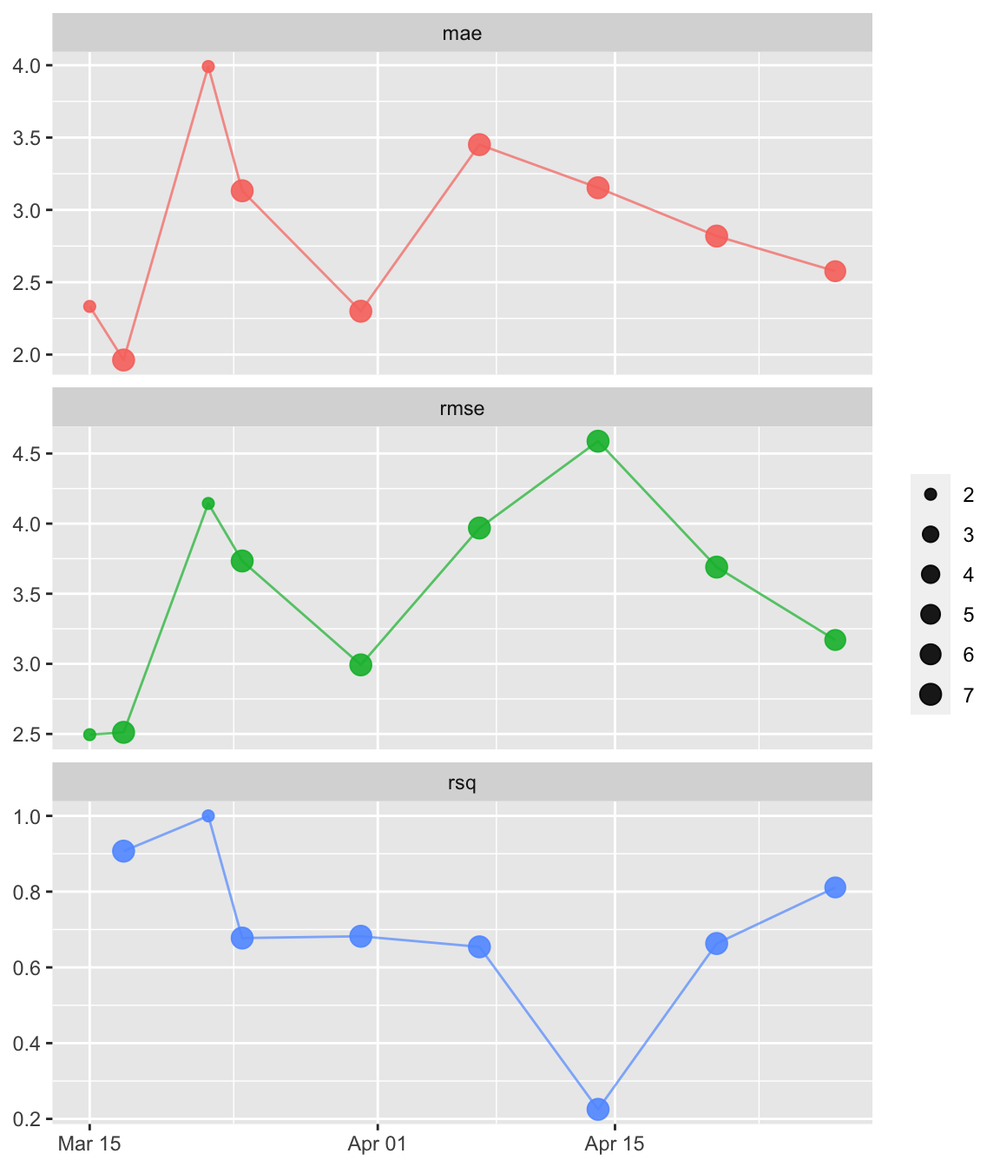
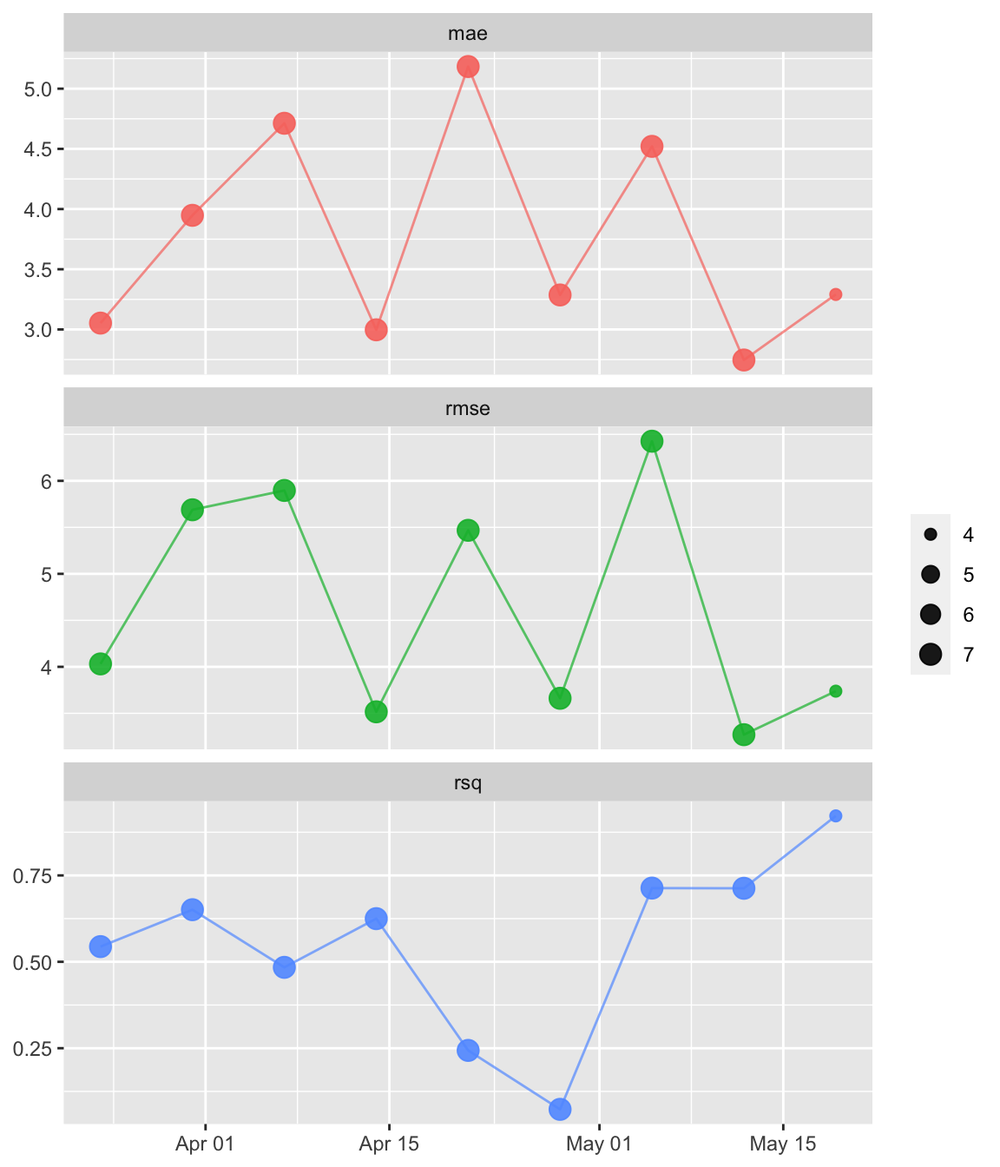
Render again

diff --git a/docs/get-started/monitor.html b/docs/get-started/monitor.html
@@ -311,45 +311,33 @@ How does my model use time?
 <span id="cb3-5"><a href="#cb3-5" aria-hidden="true" tabindex="-1"></a></span>
 <span id="cb3-6"><a href="#cb3-6" aria-hidden="true" tabindex="-1"></a>original_metrics <span class="ot">&lt;-</span></span>
 <span id="cb3-7"><a href="#cb3-7" aria-hidden="true" tabindex="-1"></a>    <span class="fu">augment</span>(v, <span class="at">new_data =</span> original_cars) <span class="sc">%&gt;%</span></span>
-<span id="cb3-8"><a href="#cb3-8" aria-hidden="true" tabindex="-1"></a>    <span class="fu">vetiver_compute_metrics</span>(date_obs, <span class="st">"week"</span>, mpg, .pred)</span></code><button title="Copy to Clipboard" class="code-copy-button"><i class="bi"></i></button></pre></div>
-<div class="cell-output cell-output-stderr">
-<pre><code>Warning: A correlation computation is required, but `estimate` is constant
-and has 0 standard deviation, resulting in a divide by 0 error. `NA` will be
-returned.</code></pre>
-</div>
-<div class="cell-output cell-output-stderr">
-<pre><code>Warning: A correlation computation is required, but `estimate` is constant
-and has 0 standard deviation, resulting in a divide by 0 error. `NA` will be
-returned.</code></pre>
-</div>
-<div class="sourceCode cell-code" id="cb6"><pre class="sourceCode r code-with-copy"><code class="sourceCode r"><span id="cb6-1"><a href="#cb6-1" aria-hidden="true" tabindex="-1"></a>original_metrics</span></code><button title="Copy to Clipboard" class="code-copy-button"><i class="bi"></i></button></pre></div>
+<span id="cb3-8"><a href="#cb3-8" aria-hidden="true" tabindex="-1"></a>    <span class="fu">vetiver_compute_metrics</span>(date_obs, <span class="st">"week"</span>, mpg, .pred)</span>
+<span id="cb3-9"><a href="#cb3-9" aria-hidden="true" tabindex="-1"></a></span>
+<span id="cb3-10"><a href="#cb3-10" aria-hidden="true" tabindex="-1"></a>original_metrics</span></code><button title="Copy to Clipboard" class="code-copy-button"><i class="bi"></i></button></pre></div>
 <div class="cell-output cell-output-stdout">
-<pre><code># A tibble: 9 × 5
+<pre><code># A tibble: 6 × 5
   .index        .n .metric .estimator .estimate
   &lt;date&gt;     &lt;int&gt; &lt;chr&gt;   &lt;chr&gt;          &lt;dbl&gt;
-1 2022-03-15     2 rmse    standard       2.49 
-2 2022-03-15     2 rsq     standard      NA    
-3 2022-03-15     2 mae     standard       2.33 
-4 2022-03-17     7 rmse    standard       2.51 
-5 2022-03-17     7 rsq     standard       0.907
-6 2022-03-17     7 mae     standard       1.96 
-7 2022-03-24     5 rmse    standard       4.05 
-8 2022-03-24     5 rsq     standard      NA    
-9 2022-03-24     5 mae     standard       3.42 </code></pre>
+1 2022-03-24     7 rmse    standard       4.03 
+2 2022-03-24     7 rsq     standard       0.544
+3 2022-03-24     7 mae     standard       3.05 
+4 2022-03-31     7 rmse    standard       5.69 
+5 2022-03-31     7 rsq     standard       0.651
+6 2022-03-31     7 mae     standard       3.95 </code></pre>
 </div>
 </div>
 </div>
 <div id="tabset-2-2" class="tab-pane" role="tabpanel" aria-labelledby="tabset-2-2-tab">
 <div class="cell">
-<div class="sourceCode cell-code" id="cb8"><pre class="sourceCode python code-with-copy"><code class="sourceCode python"><span id="cb8-1"><a href="#cb8-1" aria-hidden="true" tabindex="-1"></a><span class="im">import</span> vetiver</span>
-<span id="cb8-2"><a href="#cb8-2" aria-hidden="true" tabindex="-1"></a></span>
-<span id="cb8-3"><a href="#cb8-3" aria-hidden="true" tabindex="-1"></a><span class="im">import</span> pandas <span class="im">as</span> pd</span>
-<span id="cb8-4"><a href="#cb8-4" aria-hidden="true" tabindex="-1"></a><span class="im">from</span> sklearn <span class="im">import</span> metrics</span>
-<span id="cb8-5"><a href="#cb8-5" aria-hidden="true" tabindex="-1"></a><span class="im">from</span> datetime <span class="im">import</span> timedelta</span>
-<span id="cb8-6"><a href="#cb8-6" aria-hidden="true" tabindex="-1"></a></span>
-<span id="cb8-7"><a href="#cb8-7" aria-hidden="true" tabindex="-1"></a>cars <span class="op">=</span> pd.read_csv(<span class="st">"https://vetiver.rstudio.com/get-started/new-cars.csv"</span>)</span>
-<span id="cb8-8"><a href="#cb8-8" aria-hidden="true" tabindex="-1"></a>original_cars <span class="op">=</span> cars.iloc[:<span class="dv">14</span>, :]</span>
-<span id="cb8-9"><a href="#cb8-9" aria-hidden="true" tabindex="-1"></a>original_cars[<span class="st">"preds"</span>] <span class="op">=</span> v.model.predict(original_cars.drop(columns<span class="op">=</span>[<span class="st">"date_obs"</span>, <span class="st">"mpg"</span>]))</span></code><button title="Copy to Clipboard" class="code-copy-button"><i class="bi"></i></button></pre></div>
+<div class="sourceCode cell-code" id="cb5"><pre class="sourceCode python code-with-copy"><code class="sourceCode python"><span id="cb5-1"><a href="#cb5-1" aria-hidden="true" tabindex="-1"></a><span class="im">import</span> vetiver</span>
+<span id="cb5-2"><a href="#cb5-2" aria-hidden="true" tabindex="-1"></a></span>
+<span id="cb5-3"><a href="#cb5-3" aria-hidden="true" tabindex="-1"></a><span class="im">import</span> pandas <span class="im">as</span> pd</span>
+<span id="cb5-4"><a href="#cb5-4" aria-hidden="true" tabindex="-1"></a><span class="im">from</span> sklearn <span class="im">import</span> metrics</span>
+<span id="cb5-5"><a href="#cb5-5" aria-hidden="true" tabindex="-1"></a><span class="im">from</span> datetime <span class="im">import</span> timedelta</span>
+<span id="cb5-6"><a href="#cb5-6" aria-hidden="true" tabindex="-1"></a></span>
+<span id="cb5-7"><a href="#cb5-7" aria-hidden="true" tabindex="-1"></a>cars <span class="op">=</span> pd.read_csv(<span class="st">"https://vetiver.rstudio.com/get-started/new-cars.csv"</span>)</span>
+<span id="cb5-8"><a href="#cb5-8" aria-hidden="true" tabindex="-1"></a>original_cars <span class="op">=</span> cars.iloc[:<span class="dv">14</span>, :]</span>
+<span id="cb5-9"><a href="#cb5-9" aria-hidden="true" tabindex="-1"></a>original_cars[<span class="st">"preds"</span>] <span class="op">=</span> v.model.predict(original_cars.drop(columns<span class="op">=</span>[<span class="st">"date_obs"</span>, <span class="st">"mpg"</span>]))</span></code><button title="Copy to Clipboard" class="code-copy-button"><i class="bi"></i></button></pre></div>
 <div class="cell-output cell-output-stdout">
 <pre><code>&lt;string&gt;:1: SettingWithCopyWarning: 
 A value is trying to be set on a copy of a slice from a DataFrame.
@@ -357,27 +345,27 @@ Try using .loc[row_indexer,col_indexer] = value instead
 
 See the caveats in the documentation: https://pandas.pydata.org/pandas-docs/stable/user_guide/indexing.html#returning-a-view-versus-a-copy</code></pre>
 </div>
-<div class="sourceCode cell-code" id="cb10"><pre class="sourceCode python code-with-copy"><code class="sourceCode python"><span id="cb10-1"><a href="#cb10-1" aria-hidden="true" tabindex="-1"></a>metric_set <span class="op">=</span> [metrics.mean_absolute_error, metrics.mean_squared_error, metrics.r2_score]</span>
-<span id="cb10-2"><a href="#cb10-2" aria-hidden="true" tabindex="-1"></a>td <span class="op">=</span> timedelta(weeks <span class="op">=</span> <span class="dv">1</span>)</span>
-<span id="cb10-3"><a href="#cb10-3" aria-hidden="true" tabindex="-1"></a></span>
-<span id="cb10-4"><a href="#cb10-4" aria-hidden="true" tabindex="-1"></a>original_metrics <span class="op">=</span> vetiver.compute_metrics(</span>
-<span id="cb10-5"><a href="#cb10-5" aria-hidden="true" tabindex="-1"></a>    data <span class="op">=</span> original_cars, </span>
-<span id="cb10-6"><a href="#cb10-6" aria-hidden="true" tabindex="-1"></a>    date_var <span class="op">=</span> <span class="st">"date_obs"</span>, </span>
-<span id="cb10-7"><a href="#cb10-7" aria-hidden="true" tabindex="-1"></a>    period <span class="op">=</span> td, </span>
-<span id="cb10-8"><a href="#cb10-8" aria-hidden="true" tabindex="-1"></a>    metric_set <span class="op">=</span> metric_set, </span>
-<span id="cb10-9"><a href="#cb10-9" aria-hidden="true" tabindex="-1"></a>    truth <span class="op">=</span> <span class="st">"mpg"</span>, </span>
-<span id="cb10-10"><a href="#cb10-10" aria-hidden="true" tabindex="-1"></a>    estimate <span class="op">=</span> <span class="st">"preds"</span></span>
-<span id="cb10-11"><a href="#cb10-11" aria-hidden="true" tabindex="-1"></a>)</span>
-<span id="cb10-12"><a href="#cb10-12" aria-hidden="true" tabindex="-1"></a></span>
-<span id="cb10-13"><a href="#cb10-13" aria-hidden="true" tabindex="-1"></a>original_metrics</span></code><button title="Copy to Clipboard" class="code-copy-button"><i class="bi"></i></button></pre></div>
+<div class="sourceCode cell-code" id="cb7"><pre class="sourceCode python code-with-copy"><code class="sourceCode python"><span id="cb7-1"><a href="#cb7-1" aria-hidden="true" tabindex="-1"></a>metric_set <span class="op">=</span> [metrics.mean_absolute_error, metrics.mean_squared_error, metrics.r2_score]</span>
+<span id="cb7-2"><a href="#cb7-2" aria-hidden="true" tabindex="-1"></a>td <span class="op">=</span> timedelta(weeks <span class="op">=</span> <span class="dv">1</span>)</span>
+<span id="cb7-3"><a href="#cb7-3" aria-hidden="true" tabindex="-1"></a></span>
+<span id="cb7-4"><a href="#cb7-4" aria-hidden="true" tabindex="-1"></a>original_metrics <span class="op">=</span> vetiver.compute_metrics(</span>
+<span id="cb7-5"><a href="#cb7-5" aria-hidden="true" tabindex="-1"></a>    data <span class="op">=</span> original_cars, </span>
+<span id="cb7-6"><a href="#cb7-6" aria-hidden="true" tabindex="-1"></a>    date_var <span class="op">=</span> <span class="st">"date_obs"</span>, </span>
+<span id="cb7-7"><a href="#cb7-7" aria-hidden="true" tabindex="-1"></a>    period <span class="op">=</span> td, </span>
+<span id="cb7-8"><a href="#cb7-8" aria-hidden="true" tabindex="-1"></a>    metric_set <span class="op">=</span> metric_set, </span>
+<span id="cb7-9"><a href="#cb7-9" aria-hidden="true" tabindex="-1"></a>    truth <span class="op">=</span> <span class="st">"mpg"</span>, </span>
+<span id="cb7-10"><a href="#cb7-10" aria-hidden="true" tabindex="-1"></a>    estimate <span class="op">=</span> <span class="st">"preds"</span></span>
+<span id="cb7-11"><a href="#cb7-11" aria-hidden="true" tabindex="-1"></a>)</span>
+<span id="cb7-12"><a href="#cb7-12" aria-hidden="true" tabindex="-1"></a></span>
+<span id="cb7-13"><a href="#cb7-13" aria-hidden="true" tabindex="-1"></a>original_metrics</span></code><button title="Copy to Clipboard" class="code-copy-button"><i class="bi"></i></button></pre></div>
 <div class="cell-output cell-output-stdout">
 <pre><code>       index  n               metric   estimate
-0 2022-03-15  7  mean_absolute_error   1.528922
-1 2022-03-15  7   mean_squared_error   4.271549
-2 2022-03-15  7             r2_score   0.793702
-3 2022-03-22  7  mean_absolute_error   3.991518
-4 2022-03-22  7   mean_squared_error  27.570905
-5 2022-03-22  7             r2_score  -0.785869</code></pre>
+0 2022-03-24  7  mean_absolute_error   3.164286
+1 2022-03-24  7   mean_squared_error  11.826094
+2 2022-03-24  7             r2_score  -1.364061
+3 2022-03-31  7  mean_absolute_error   1.713251
+4 2022-03-31  7   mean_squared_error   6.843211
+5 2022-03-31  7             r2_score   0.631600</code></pre>
 </div>
 </div>
 </div>
@@ -392,38 +380,38 @@ See the caveats in the documentation: https://pandas.pydata.org/pandas-docs/stab
 <div class="tab-content" data-group="language">
 <div id="tabset-3-1" class="tab-pane active" role="tabpanel" aria-labelledby="tabset-3-1-tab">
 <div class="cell">
-<div class="sourceCode cell-code" id="cb12"><pre class="sourceCode r code-with-copy"><code class="sourceCode r"><span id="cb12-1"><a href="#cb12-1" aria-hidden="true" tabindex="-1"></a>model_board <span class="sc">%&gt;%</span> <span class="fu">pin_write</span>(original_metrics, <span class="st">"tree_metrics"</span>)</span>
-<span id="cb12-2"><a href="#cb12-2" aria-hidden="true" tabindex="-1"></a></span>
-<span id="cb12-3"><a href="#cb12-3" aria-hidden="true" tabindex="-1"></a><span class="co"># dates overlap with existing metrics:</span></span>
-<span id="cb12-4"><a href="#cb12-4" aria-hidden="true" tabindex="-1"></a>new_cars <span class="ot">&lt;-</span> <span class="fu">slice</span>(cars, <span class="sc">-</span><span class="dv">1</span><span class="sc">:-</span><span class="dv">7</span>)</span>
-<span id="cb12-5"><a href="#cb12-5" aria-hidden="true" tabindex="-1"></a>new_metrics <span class="ot">&lt;-</span></span>
-<span id="cb12-6"><a href="#cb12-6" aria-hidden="true" tabindex="-1"></a>    <span class="fu">augment</span>(v, <span class="at">new_data =</span> new_cars) <span class="sc">%&gt;%</span></span>
-<span id="cb12-7"><a href="#cb12-7" aria-hidden="true" tabindex="-1"></a>    <span class="fu">vetiver_compute_metrics</span>(date_obs, <span class="st">"week"</span>, mpg, .pred)</span>
-<span id="cb12-8"><a href="#cb12-8" aria-hidden="true" tabindex="-1"></a></span>
-<span id="cb12-9"><a href="#cb12-9" aria-hidden="true" tabindex="-1"></a>model_board <span class="sc">%&gt;%</span></span>
-<span id="cb12-10"><a href="#cb12-10" aria-hidden="true" tabindex="-1"></a>    <span class="fu">vetiver_pin_metrics</span>(new_metrics, <span class="st">"tree_metrics"</span>, <span class="at">overwrite =</span> <span class="cn">TRUE</span>)</span></code><button title="Copy to Clipboard" class="code-copy-button"><i class="bi"></i></button></pre></div>
+<div class="sourceCode cell-code" id="cb9"><pre class="sourceCode r code-with-copy"><code class="sourceCode r"><span id="cb9-1"><a href="#cb9-1" aria-hidden="true" tabindex="-1"></a>model_board <span class="sc">%&gt;%</span> <span class="fu">pin_write</span>(original_metrics, <span class="st">"tree_metrics"</span>)</span>
+<span id="cb9-2"><a href="#cb9-2" aria-hidden="true" tabindex="-1"></a></span>
+<span id="cb9-3"><a href="#cb9-3" aria-hidden="true" tabindex="-1"></a><span class="co"># dates overlap with existing metrics:</span></span>
+<span id="cb9-4"><a href="#cb9-4" aria-hidden="true" tabindex="-1"></a>new_cars <span class="ot">&lt;-</span> <span class="fu">slice</span>(cars, <span class="sc">-</span><span class="dv">1</span><span class="sc">:-</span><span class="dv">7</span>)</span>
+<span id="cb9-5"><a href="#cb9-5" aria-hidden="true" tabindex="-1"></a>new_metrics <span class="ot">&lt;-</span></span>
+<span id="cb9-6"><a href="#cb9-6" aria-hidden="true" tabindex="-1"></a>    <span class="fu">augment</span>(v, <span class="at">new_data =</span> new_cars) <span class="sc">%&gt;%</span></span>
+<span id="cb9-7"><a href="#cb9-7" aria-hidden="true" tabindex="-1"></a>    <span class="fu">vetiver_compute_metrics</span>(date_obs, <span class="st">"week"</span>, mpg, .pred)</span>
+<span id="cb9-8"><a href="#cb9-8" aria-hidden="true" tabindex="-1"></a></span>
+<span id="cb9-9"><a href="#cb9-9" aria-hidden="true" tabindex="-1"></a>model_board <span class="sc">%&gt;%</span></span>
+<span id="cb9-10"><a href="#cb9-10" aria-hidden="true" tabindex="-1"></a>    <span class="fu">vetiver_pin_metrics</span>(new_metrics, <span class="st">"tree_metrics"</span>, <span class="at">overwrite =</span> <span class="cn">TRUE</span>)</span></code><button title="Copy to Clipboard" class="code-copy-button"><i class="bi"></i></button></pre></div>
 </div>
 </div>
 <div id="tabset-3-2" class="tab-pane" role="tabpanel" aria-labelledby="tabset-3-2-tab">
 <div class="cell">
-<div class="sourceCode cell-code" id="cb13"><pre class="sourceCode python code-with-copy"><code class="sourceCode python"><span id="cb13-1"><a href="#cb13-1" aria-hidden="true" tabindex="-1"></a><span class="im">import</span> vetiver</span>
-<span id="cb13-2"><a href="#cb13-2" aria-hidden="true" tabindex="-1"></a><span class="im">import</span> pins</span>
-<span id="cb13-3"><a href="#cb13-3" aria-hidden="true" tabindex="-1"></a></span>
-<span id="cb13-4"><a href="#cb13-4" aria-hidden="true" tabindex="-1"></a>model_board.pin_write(original_metrics, <span class="st">"tree_metrics"</span>, <span class="bu">type</span> <span class="op">=</span> <span class="st">"csv"</span>)</span>
-<span id="cb13-5"><a href="#cb13-5" aria-hidden="true" tabindex="-1"></a></span>
-<span id="cb13-6"><a href="#cb13-6" aria-hidden="true" tabindex="-1"></a><span class="co"># dates overlap with existing metrics:</span></span></code><button title="Copy to Clipboard" class="code-copy-button"><i class="bi"></i></button></pre></div>
-<div class="sourceCode cell-code" id="cb14"><pre class="sourceCode python code-with-copy"><code class="sourceCode python"><span id="cb14-1"><a href="#cb14-1" aria-hidden="true" tabindex="-1"></a>new_cars <span class="op">=</span> cars.iloc[<span class="dv">7</span>:, :]</span>
-<span id="cb14-2"><a href="#cb14-2" aria-hidden="true" tabindex="-1"></a>new_cars[<span class="st">"preds"</span>] <span class="op">=</span> v.model.predict(new_cars.drop(columns<span class="op">=</span>[<span class="st">"date_obs"</span>, <span class="st">"mpg"</span>]))</span></code><button title="Copy to Clipboard" class="code-copy-button"><i class="bi"></i></button></pre></div>
-<div class="sourceCode cell-code" id="cb15"><pre class="sourceCode python code-with-copy"><code class="sourceCode python"><span id="cb15-1"><a href="#cb15-1" aria-hidden="true" tabindex="-1"></a>new_metrics <span class="op">=</span> vetiver.compute_metrics(</span>
-<span id="cb15-2"><a href="#cb15-2" aria-hidden="true" tabindex="-1"></a>    data <span class="op">=</span> new_cars, </span>
-<span id="cb15-3"><a href="#cb15-3" aria-hidden="true" tabindex="-1"></a>    date_var <span class="op">=</span> <span class="st">"date_obs"</span>, </span>
-<span id="cb15-4"><a href="#cb15-4" aria-hidden="true" tabindex="-1"></a>    period <span class="op">=</span> td, </span>
-<span id="cb15-5"><a href="#cb15-5" aria-hidden="true" tabindex="-1"></a>    metric_set <span class="op">=</span> metric_set, </span>
-<span id="cb15-6"><a href="#cb15-6" aria-hidden="true" tabindex="-1"></a>    truth <span class="op">=</span> <span class="st">"mpg"</span>, </span>
-<span id="cb15-7"><a href="#cb15-7" aria-hidden="true" tabindex="-1"></a>    estimate <span class="op">=</span> <span class="st">"preds"</span></span>
-<span id="cb15-8"><a href="#cb15-8" aria-hidden="true" tabindex="-1"></a>)</span>
-<span id="cb15-9"><a href="#cb15-9" aria-hidden="true" tabindex="-1"></a>                    </span>
-<span id="cb15-10"><a href="#cb15-10" aria-hidden="true" tabindex="-1"></a>vetiver.pin_metrics(model_board, new_metrics, <span class="st">"tree_metrics"</span>, overwrite <span class="op">=</span> <span class="va">True</span>)</span></code><button title="Copy to Clipboard" class="code-copy-button"><i class="bi"></i></button></pre></div>
+<div class="sourceCode cell-code" id="cb10"><pre class="sourceCode python code-with-copy"><code class="sourceCode python"><span id="cb10-1"><a href="#cb10-1" aria-hidden="true" tabindex="-1"></a><span class="im">import</span> vetiver</span>
+<span id="cb10-2"><a href="#cb10-2" aria-hidden="true" tabindex="-1"></a><span class="im">import</span> pins</span>
+<span id="cb10-3"><a href="#cb10-3" aria-hidden="true" tabindex="-1"></a></span>
+<span id="cb10-4"><a href="#cb10-4" aria-hidden="true" tabindex="-1"></a>model_board.pin_write(original_metrics, <span class="st">"tree_metrics"</span>, <span class="bu">type</span> <span class="op">=</span> <span class="st">"csv"</span>)</span>
+<span id="cb10-5"><a href="#cb10-5" aria-hidden="true" tabindex="-1"></a></span>
+<span id="cb10-6"><a href="#cb10-6" aria-hidden="true" tabindex="-1"></a><span class="co"># dates overlap with existing metrics:</span></span></code><button title="Copy to Clipboard" class="code-copy-button"><i class="bi"></i></button></pre></div>
+<div class="sourceCode cell-code" id="cb11"><pre class="sourceCode python code-with-copy"><code class="sourceCode python"><span id="cb11-1"><a href="#cb11-1" aria-hidden="true" tabindex="-1"></a>new_cars <span class="op">=</span> cars.iloc[<span class="dv">7</span>:, :]</span>
+<span id="cb11-2"><a href="#cb11-2" aria-hidden="true" tabindex="-1"></a>new_cars[<span class="st">"preds"</span>] <span class="op">=</span> v.model.predict(new_cars.drop(columns<span class="op">=</span>[<span class="st">"date_obs"</span>, <span class="st">"mpg"</span>]))</span></code><button title="Copy to Clipboard" class="code-copy-button"><i class="bi"></i></button></pre></div>
+<div class="sourceCode cell-code" id="cb12"><pre class="sourceCode python code-with-copy"><code class="sourceCode python"><span id="cb12-1"><a href="#cb12-1" aria-hidden="true" tabindex="-1"></a>new_metrics <span class="op">=</span> vetiver.compute_metrics(</span>
+<span id="cb12-2"><a href="#cb12-2" aria-hidden="true" tabindex="-1"></a>    data <span class="op">=</span> new_cars, </span>
+<span id="cb12-3"><a href="#cb12-3" aria-hidden="true" tabindex="-1"></a>    date_var <span class="op">=</span> <span class="st">"date_obs"</span>, </span>
+<span id="cb12-4"><a href="#cb12-4" aria-hidden="true" tabindex="-1"></a>    period <span class="op">=</span> td, </span>
+<span id="cb12-5"><a href="#cb12-5" aria-hidden="true" tabindex="-1"></a>    metric_set <span class="op">=</span> metric_set, </span>
+<span id="cb12-6"><a href="#cb12-6" aria-hidden="true" tabindex="-1"></a>    truth <span class="op">=</span> <span class="st">"mpg"</span>, </span>
+<span id="cb12-7"><a href="#cb12-7" aria-hidden="true" tabindex="-1"></a>    estimate <span class="op">=</span> <span class="st">"preds"</span></span>
+<span id="cb12-8"><a href="#cb12-8" aria-hidden="true" tabindex="-1"></a>)</span>
+<span id="cb12-9"><a href="#cb12-9" aria-hidden="true" tabindex="-1"></a>                    </span>
+<span id="cb12-10"><a href="#cb12-10" aria-hidden="true" tabindex="-1"></a>vetiver.pin_metrics(model_board, new_metrics, <span class="st">"tree_metrics"</span>, overwrite <span class="op">=</span> <span class="va">True</span>)</span></code><button title="Copy to Clipboard" class="code-copy-button"><i class="bi"></i></button></pre></div>
 </div>
 </div>
 </div>
@@ -437,16 +425,10 @@ See the caveats in the documentation: https://pandas.pydata.org/pandas-docs/stab
 <div class="tab-content" data-group="language">
 <div id="tabset-4-1" class="tab-pane active" role="tabpanel" aria-labelledby="tabset-4-1-tab">
 <div class="cell">
-<div class="sourceCode cell-code" id="cb16"><pre class="sourceCode r code-with-copy"><code class="sourceCode r"><span id="cb16-1"><a href="#cb16-1" aria-hidden="true" tabindex="-1"></a><span class="fu">library</span>(ggplot2)</span>
-<span id="cb16-2"><a href="#cb16-2" aria-hidden="true" tabindex="-1"></a>monitoring_metrics <span class="ot">&lt;-</span> model_board <span class="sc">%&gt;%</span> <span class="fu">pin_read</span>(<span class="st">"tree_metrics"</span>)</span>
-<span id="cb16-3"><a href="#cb16-3" aria-hidden="true" tabindex="-1"></a><span class="fu">vetiver_plot_metrics</span>(monitoring_metrics) <span class="sc">+</span></span>
-<span id="cb16-4"><a href="#cb16-4" aria-hidden="true" tabindex="-1"></a>    <span class="fu">scale_size</span>(<span class="at">range =</span> <span class="fu">c</span>(<span class="dv">2</span>, <span class="dv">4</span>))</span></code><button title="Copy to Clipboard" class="code-copy-button"><i class="bi"></i></button></pre></div>
-<div class="cell-output cell-output-stderr">
-<pre><code>Warning: Removed 1 row(s) containing missing values (geom_path).</code></pre>
-</div>
-<div class="cell-output cell-output-stderr">
-<pre><code>Warning: Removed 1 rows containing missing values (geom_point).</code></pre>
-</div>
+<div class="sourceCode cell-code" id="cb13"><pre class="sourceCode r code-with-copy"><code class="sourceCode r"><span id="cb13-1"><a href="#cb13-1" aria-hidden="true" tabindex="-1"></a><span class="fu">library</span>(ggplot2)</span>
+<span id="cb13-2"><a href="#cb13-2" aria-hidden="true" tabindex="-1"></a>monitoring_metrics <span class="ot">&lt;-</span> model_board <span class="sc">%&gt;%</span> <span class="fu">pin_read</span>(<span class="st">"tree_metrics"</span>)</span>
+<span id="cb13-3"><a href="#cb13-3" aria-hidden="true" tabindex="-1"></a><span class="fu">vetiver_plot_metrics</span>(monitoring_metrics) <span class="sc">+</span></span>
+<span id="cb13-4"><a href="#cb13-4" aria-hidden="true" tabindex="-1"></a>    <span class="fu">scale_size</span>(<span class="at">range =</span> <span class="fu">c</span>(<span class="dv">2</span>, <span class="dv">4</span>))</span></code><button title="Copy to Clipboard" class="code-copy-button"><i class="bi"></i></button></pre></div>
 <div class="cell-output-display">
 <p><img src="monitor_files/figure-html/unnamed-chunk-7-1.png" class="img-fluid" width="576"></p>
 </div>
@@ -454,9 +436,9 @@ See the caveats in the documentation: https://pandas.pydata.org/pandas-docs/stab
 </div>
 <div id="tabset-4-2" class="tab-pane" role="tabpanel" aria-labelledby="tabset-4-2-tab">
 <div class="cell">
-<div class="sourceCode cell-code" id="cb19"><pre class="sourceCode python code-with-copy"><code class="sourceCode python"><span id="cb19-1"><a href="#cb19-1" aria-hidden="true" tabindex="-1"></a>monitoring_metrics <span class="op">=</span> model_board.pin_read(<span class="st">"tree_metrics"</span>)</span>
-<span id="cb19-2"><a href="#cb19-2" aria-hidden="true" tabindex="-1"></a>p <span class="op">=</span> vetiver.plot_metrics(df_metrics <span class="op">=</span> monitoring_metrics)</span>
-<span id="cb19-3"><a href="#cb19-3" aria-hidden="true" tabindex="-1"></a>p.show()</span></code><button title="Copy to Clipboard" class="code-copy-button"><i class="bi"></i></button></pre></div>
+<div class="sourceCode cell-code" id="cb14"><pre class="sourceCode python code-with-copy"><code class="sourceCode python"><span id="cb14-1"><a href="#cb14-1" aria-hidden="true" tabindex="-1"></a>monitoring_metrics <span class="op">=</span> model_board.pin_read(<span class="st">"tree_metrics"</span>)</span>
+<span id="cb14-2"><a href="#cb14-2" aria-hidden="true" tabindex="-1"></a>p <span class="op">=</span> vetiver.plot_metrics(df_metrics <span class="op">=</span> monitoring_metrics)</span>
+<span id="cb14-3"><a href="#cb14-3" aria-hidden="true" tabindex="-1"></a>p.show()</span></code><button title="Copy to Clipboard" class="code-copy-button"><i class="bi"></i></button></pre></div>
 </div>
 <p><img src="../images/pythonmonitor.png" class="img-fluid"></p>
 </div>

diff --git a/docs/get-started/version.html b/docs/get-started/version.html
@@ -333,20 +333,16 @@ Note
 <span id="cb5-5"><a href="#cb5-5" aria-hidden="true" tabindex="-1"></a>v <span class="ot">&lt;-</span> <span class="fu">vetiver_model</span>(car_mod, <span class="st">"cars_mpg"</span>)</span>
 <span id="cb5-6"><a href="#cb5-6" aria-hidden="true" tabindex="-1"></a></span>
 <span id="cb5-7"><a href="#cb5-7" aria-hidden="true" tabindex="-1"></a>model_board <span class="sc">%&gt;%</span> <span class="fu">vetiver_pin_write</span>(v)</span></code><button title="Copy to Clipboard" class="code-copy-button"><i class="bi"></i></button></pre></div>
-<div class="cell-output cell-output-stderr">
-<pre><code>Creating new version '20220719T223457Z-9b649'
-Writing to pin 'cars_mpg'</code></pre>
-</div>
 </div>
 </div>
 <div id="tabset-3-2" class="tab-pane" role="tabpanel" aria-labelledby="tabset-3-2-tab">
 <div class="cell">
-<div class="sourceCode cell-code" id="cb7"><pre class="sourceCode python code-with-copy"><code class="sourceCode python"><span id="cb7-1"><a href="#cb7-1" aria-hidden="true" tabindex="-1"></a><span class="im">from</span> sklearn <span class="im">import</span> tree</span>
-<span id="cb7-2"><a href="#cb7-2" aria-hidden="true" tabindex="-1"></a>car_mod <span class="op">=</span> tree.DecisionTreeRegressor().fit(mtcars.drop(columns<span class="op">=</span><span class="st">"mpg"</span>), mtcars[<span class="st">"mpg"</span>])</span>
-<span id="cb7-3"><a href="#cb7-3" aria-hidden="true" tabindex="-1"></a></span>
-<span id="cb7-4"><a href="#cb7-4" aria-hidden="true" tabindex="-1"></a>v <span class="op">=</span> VetiverModel(car_mod, model_name <span class="op">=</span> <span class="st">"cars_mpg"</span>, </span>
-<span id="cb7-5"><a href="#cb7-5" aria-hidden="true" tabindex="-1"></a>                 save_ptype <span class="op">=</span> <span class="va">True</span>, ptype_data <span class="op">=</span> mtcars)</span>
-<span id="cb7-6"><a href="#cb7-6" aria-hidden="true" tabindex="-1"></a>vetiver_pin_write(model_board, v)</span></code><button title="Copy to Clipboard" class="code-copy-button"><i class="bi"></i></button></pre></div>
+<div class="sourceCode cell-code" id="cb6"><pre class="sourceCode python code-with-copy"><code class="sourceCode python"><span id="cb6-1"><a href="#cb6-1" aria-hidden="true" tabindex="-1"></a><span class="im">from</span> sklearn <span class="im">import</span> tree</span>
+<span id="cb6-2"><a href="#cb6-2" aria-hidden="true" tabindex="-1"></a>car_mod <span class="op">=</span> tree.DecisionTreeRegressor().fit(mtcars.drop(columns<span class="op">=</span><span class="st">"mpg"</span>), mtcars[<span class="st">"mpg"</span>])</span>
+<span id="cb6-3"><a href="#cb6-3" aria-hidden="true" tabindex="-1"></a></span>
+<span id="cb6-4"><a href="#cb6-4" aria-hidden="true" tabindex="-1"></a>v <span class="op">=</span> VetiverModel(car_mod, model_name <span class="op">=</span> <span class="st">"cars_mpg"</span>, </span>
+<span id="cb6-5"><a href="#cb6-5" aria-hidden="true" tabindex="-1"></a>                 save_ptype <span class="op">=</span> <span class="va">True</span>, ptype_data <span class="op">=</span> mtcars)</span>
+<span id="cb6-6"><a href="#cb6-6" aria-hidden="true" tabindex="-1"></a>vetiver_pin_write(model_board, v)</span></code><button title="Copy to Clipboard" class="code-copy-button"><i class="bi"></i></button></pre></div>
 </div>
 </div>
 </div>
@@ -362,8 +358,8 @@ Writing to pin 'cars_mpg'</code></pre>
 <pre><code># A tibble: 2 × 3
   version                created             hash 
   &lt;chr&gt;                  &lt;dttm&gt;              &lt;chr&gt;
-1 20220719T223455Z-4a65a 2022-07-19 16:34:00 4a65a
-2 20220719T223457Z-9b649 2022-07-19 16:34:00 9b649</code></pre>
+1 20220719T233129Z-4a65a 2022-07-19 17:31:00 4a65a
+2 20220719T233131Z-15475 2022-07-19 17:31:00 15475</code></pre>
 </div>
 </div>
 </div>
@@ -372,8 +368,8 @@ Writing to pin 'cars_mpg'</code></pre>
 <div class="sourceCode cell-code" id="cb9"><pre class="sourceCode python code-with-copy"><code class="sourceCode python"><span id="cb9-1"><a href="#cb9-1" aria-hidden="true" tabindex="-1"></a>model_board.pin_versions(<span class="st">"cars_mpg"</span>)</span></code><button title="Copy to Clipboard" class="code-copy-button"><i class="bi"></i></button></pre></div>
 <div class="cell-output cell-output-stdout">
 <pre><code>              created   hash                 version
-0 2022-07-19 16:34:55  dd3e7  20220719T163455Z-dd3e7
-1 2022-07-19 16:34:57  afa6c  20220719T163457Z-afa6c</code></pre>
+0 2022-07-19 17:31:29  dd3e7  20220719T173129Z-dd3e7
+1 2022-07-19 17:31:31  4380a  20220719T173131Z-4380a</code></pre>
 </div>
 </div>
 </div>

diff --git a/docs/index.html b/docs/index.html
@@ -97,6 +97,7 @@ code span.wa { color: #60a0b0; font-weight: bold; font-style: italic; } /* Warni
 <script src="site_libs/bootstrap/bootstrap.min.js"></script>
 <link href="site_libs/bootstrap/bootstrap-icons.css" rel="stylesheet">
 <link href="site_libs/bootstrap/bootstrap.min.css" rel="stylesheet" id="quarto-bootstrap" data-mode="light">
+<script src="site_libs/quarto-contrib/grouped-tabsets-0.0.1/grouped-tabsets.js"></script>
 <script id="quarto-search-options" type="application/json">{
   "location": "navbar",
   "copy-button": false,
@@ -228,9 +229,9 @@ There is a lack 😩 of effective tools to:
 </div>
 </div>
 <p>Use vetiver to <a href="./get-started/version.html">version</a> and <a href="./get-started/deploy.html">deploy</a> your trained models.</p>
-<div class="panel-tabset">
+<div class="panel-tabset" data-group="language">
 <ul class="nav nav-tabs" role="tablist"><li class="nav-item" role="presentation"><a class="nav-link active" id="tabset-1-1-tab" data-bs-toggle="tab" data-bs-target="#tabset-1-1" role="tab" aria-controls="tabset-1-1" aria-selected="true">R</a></li><li class="nav-item" role="presentation"><a class="nav-link" id="tabset-1-2-tab" data-bs-toggle="tab" data-bs-target="#tabset-1-2" role="tab" aria-controls="tabset-1-2" aria-selected="false">Python</a></li></ul>
-<div class="tab-content">
+<div class="tab-content" data-group="language">
 <div id="tabset-1-1" class="tab-pane active" role="tabpanel" aria-labelledby="tabset-1-1-tab">
 <div class="cell">
 <div class="sourceCode cell-code" id="cb1"><pre class="sourceCode r code-with-copy"><code class="sourceCode r"><span id="cb1-1"><a href="#cb1-1" aria-hidden="true" tabindex="-1"></a><span class="fu">library</span>(vetiver)</span>

diff --git a/docs/learn-more/model-card.html b/docs/learn-more/model-card.html
@@ -246,7 +246,7 @@ code span.wa { color: #60a0b0; font-weight: bold; font-style: italic; } /* Warni
 <span id="cb1-6"><a href="#cb1-6" aria-hidden="true" tabindex="-1"></a>v <span class="ot">&lt;-</span> <span class="fu">vetiver_model</span>(cars_lm, <span class="st">"cars_linear"</span>)</span>
 <span id="cb1-7"><a href="#cb1-7" aria-hidden="true" tabindex="-1"></a><span class="fu">vetiver_pin_write</span>(model_board, v)</span></code><button title="Copy to Clipboard" class="code-copy-button"><i class="bi"></i></button></pre></div>
 <div class="cell-output cell-output-stderr">
-<pre><code>Creating new version '20220719T223429Z-9ca24'
+<pre><code>Creating new version '20220719T233102Z-9ca24'
 Writing to pin 'cars_linear'
 
 Create a Model Card for your published model

diff --git a/docs/get-started/deploy.html b/docs/get-started/deploy.html
@@ -354,7 +354,7 @@ library(plumber)
 library(rapidoc)
 library(vetiver)
 b &lt;- board_folder(path = "pins-r")
-v &lt;- vetiver_pin_read(b, "cars_mpg", version = "20220719T223436Z-04d88")
+v &lt;- vetiver_pin_read(b, "cars_mpg", version = "20220719T233109Z-80936")
 
 #* @plumber
 function(pr) {
